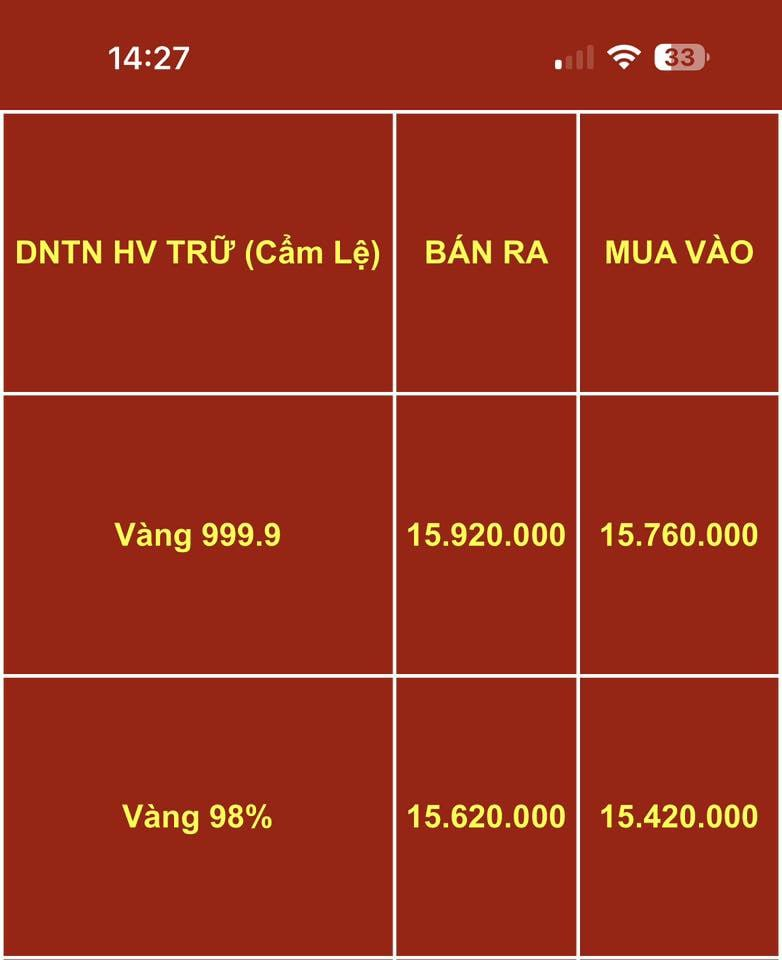
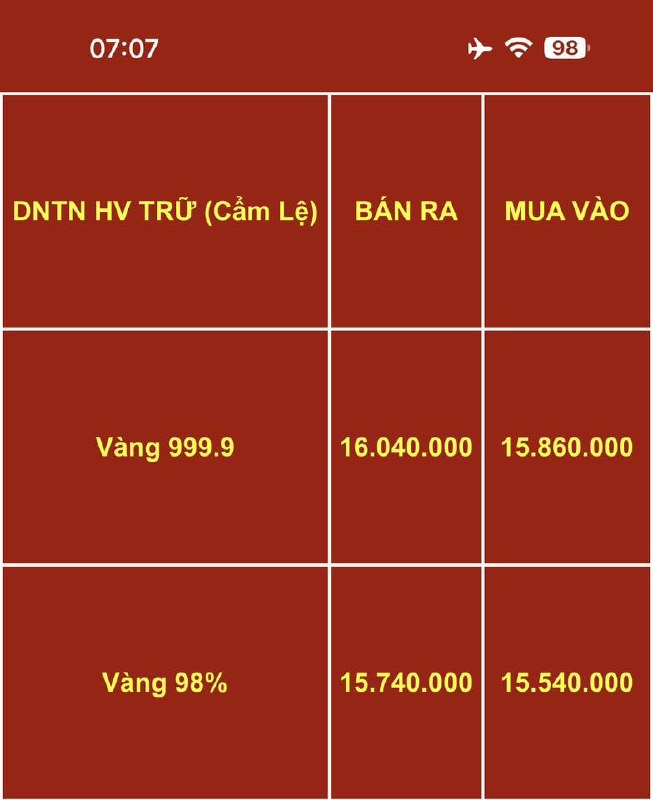
Update tru-cam-le price image (08:41)

diff --git a/app/data/goldShops.ts b/app/data/goldShops.ts
@@ -33,7 +33,7 @@ export const GOLD_SHOPS: GoldShop[] = [
     name: "Trữ Cẩm Lệ",
     location: "Đà Nẵng",
     image: "images/tru-cam-le.jpg",
-    updatedAt: "14:53",
+    updatedAt: "08:41",
   },
 ];
 
